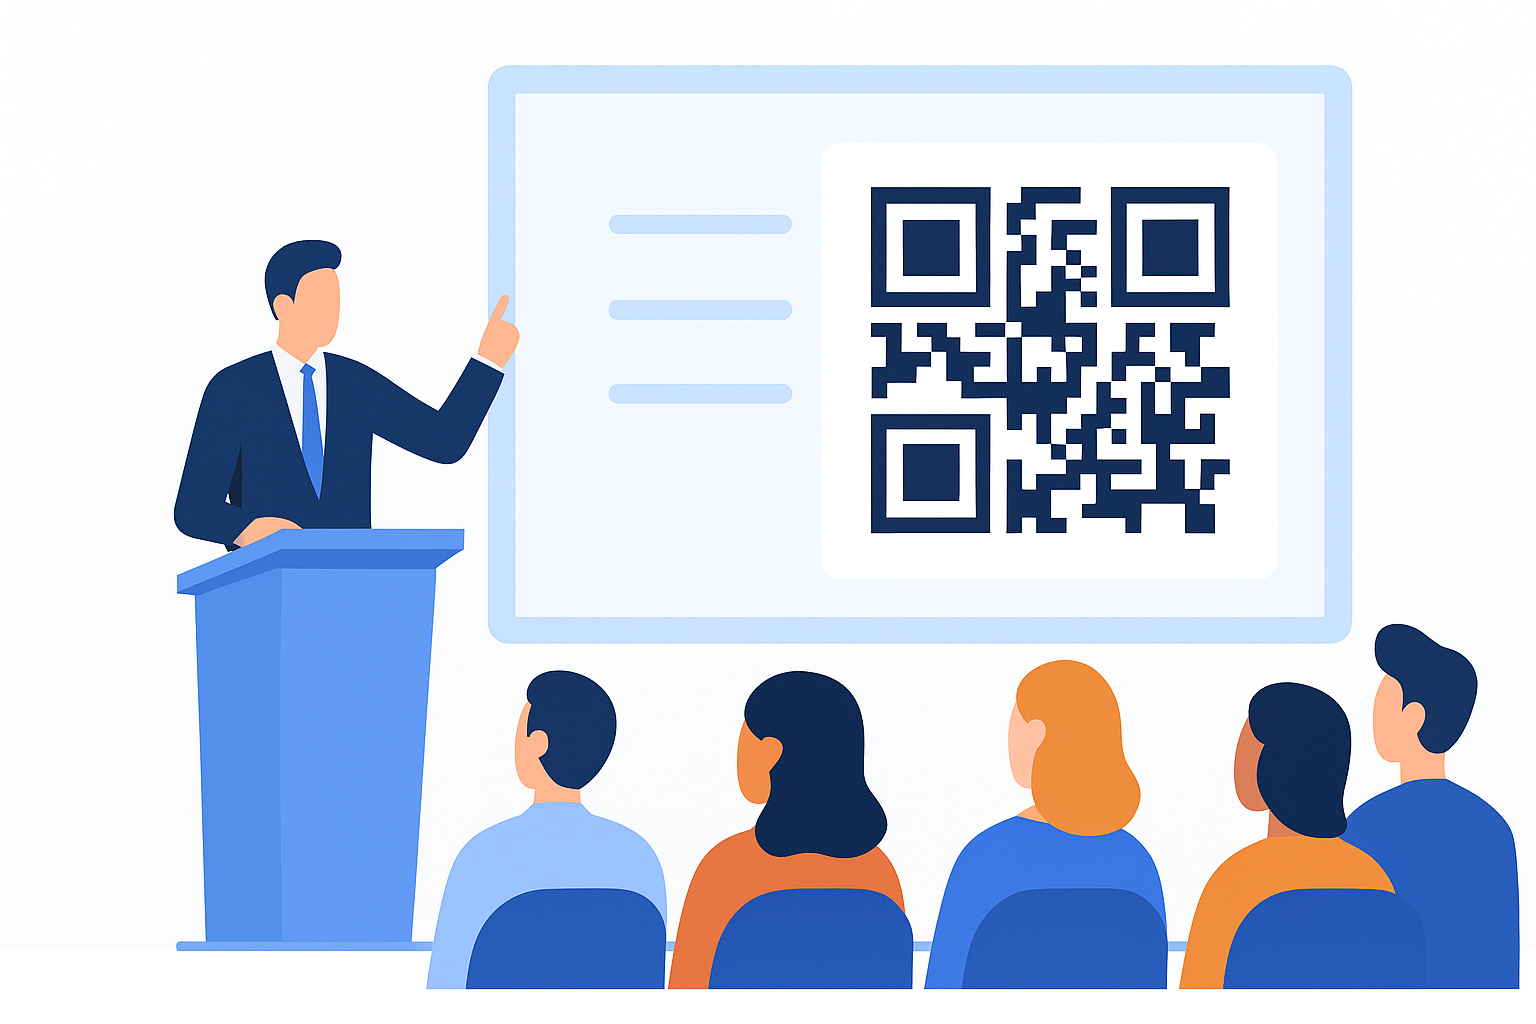
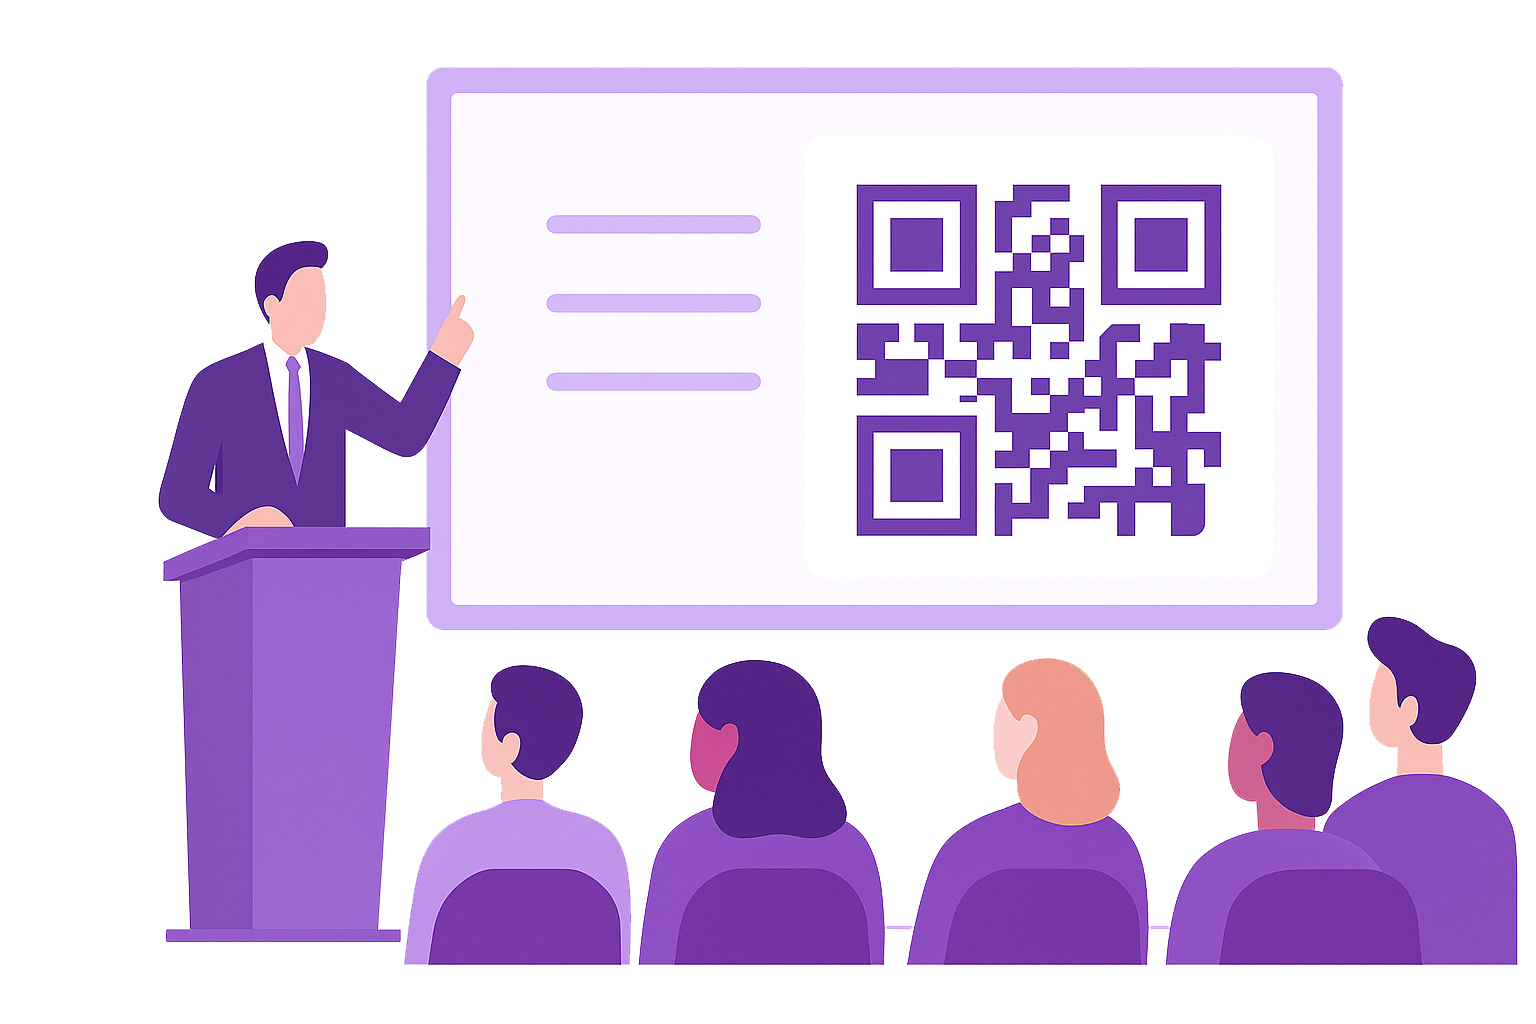
pagina

diff --git a/web/src/app/page.tsx b/web/src/app/page.tsx
@@ -20,7 +20,7 @@ const flow = [
   },
   {
     title: "3. Compartilhe no seu evento",
-    desc: "Mostre as perguntas selecionadas e gerencie ao vivo.",
+    desc: "Moderadores mostram ou leêm as perguntas selecionadas e gerenciam ao vivo.",
     type: "share",
   },
 ];
@@ -40,21 +40,32 @@ export default function Home() {
       {/* blobs suaves */}
       <div className="pointer-events-none absolute -left-24 top-16 h-80 w-80 rounded-[40%] bg-violet-200/40 blur-3xl" />
       <div className="pointer-events-none absolute -right-32 top-24 h-72 w-72 rounded-[40%] bg-sky-200/45 blur-3xl" />
-      <div className="pointer-events-none absolute -left-40 bottom-0 h-96 w-96 rounded-[45%] bg-indigo-200/35 blur-[100px]" />
+      <div className="pointer-events-none absolute -left-40 bottom-0 h-96 w-96 rounded-[45%] bg-purple-200/35 blur-[100px]" />
 
-      <div className="relative mx-auto flex min-h-screen w-full max-w-6xl flex-col gap-24 px-6 py-20">
+      <div className="relative mx-auto flex min-h-screen w-full max-w-7xl flex-col gap-24 px-6 py-20">
         {/* HERO */}
-        <section className="grid items-center gap-12 md:grid-cols-2">
-          {/* Texto */}
-          <div className="max-w-xl space-y-8">
-            <span className="inline-flex items-center gap-2 rounded-full border border-slate-200 bg-white/70 px-4 py-2 text-xs font-semibold uppercase tracking-[0.35em] shadow-sm">
-              <span className="text-slate-900">Events</span>
-              <span className="text-blue-600">Q</span>
-            </span>
+        <section className="grid items-center gap-8 md:grid-cols-12">
+          {/* Texto (7 colunas) */}
+          <div className="md:col-span-7 max-w-2xl space-y-8">
+            {/* Brand grande com logo */}
+            <div className="flex items-center gap-3">
+              <Image
+                src="/logotipo.png"     // coloque seu arquivo em /public/logotipo.png
+                alt="Logo EventsQ"
+                width={36}
+                height={36}
+                className="h-9 w-9 rounded-md"
+                priority
+              />
+              <div className="text-2xl font-semibold tracking-tight">
+                <span className="text-slate-900">Events</span>
+                <span className="text-purple-600">Q</span>
+              </div>
+            </div>
 
             <div className="space-y-5">
-              <h1 className="text-balance text-4xl font-semibold tracking-tight text-slate-900 md:text-5xl lg:text-6xl">
-                Perguntas inteligentes para eventos memoráveis.
+              <h1 className="text-4xl font-semibold leading-tight tracking-tight text-slate-900 md:text-5xl lg:text-6xl">
+                <span className="whitespace-nowrap">Perguntas{"\u00A0"}inteligentes para</span> eventos memoráveis.
               </h1>
               <p className="text-base text-slate-600 md:text-lg">
                 Crie salas em segundos, distribua um QR Code elegante e mantenha a conversa fluindo com moderação refinada.
@@ -64,7 +75,10 @@ export default function Home() {
             <div className="flex flex-col gap-4 sm:flex-row">
               <Link
                 href="/register"
-                className="inline-flex items-center justify-center rounded-full bg-gradient-to-r from-sky-500 to-violet-600 px-6 py-3 text-sm font-medium text-white shadow-lg shadow-violet-600/25 transition hover:brightness-110"
+                className="inline-flex items-center justify-center rounded-full 
+                          bg-gradient-to-r from-purple-500 to-violet-600 
+                          px-6 py-3 text-sm font-medium text-white 
+                          shadow-lg shadow-violet-600/25 transition hover:brightness-110"
               >
                 Comece agora →
               </Link>
@@ -77,14 +91,13 @@ export default function Home() {
             </div>
           </div>
 
-          {/* Ilustração */}
-          <div className="relative flex items-center justify-center">
+          {/* Ilustração (5 colunas) */}
+          <div className="md:col-span-5 flex items-center justify-center">
             <Image
               src="/Plateia_EventQ.png"
               alt="Apresentador mostrando QR Code para a plateia"
-              width={640}
-              height={480}
-              className="h-auto w-full max-w-lg"
+              width={820}
+              height={560}
               priority
             />
           </div>
@@ -114,12 +127,12 @@ export default function Home() {
           <div className="grid gap-8 md:grid-cols-3">
             {flow.map(({ title, desc, type }) => (
               <div key={title} className="space-y-4">
-                <div className="rounded-2xl bg-indigo-600 p-5 text-white shadow-lg ring-1 ring-indigo-800/40">
+                <div className="rounded-2xl bg-purple-600 p-5 text-white shadow-lg ring-1 ring-purple-800/40">
                   {type === "create" && (
                     <div className="grid grid-cols-[1fr_auto] gap-4 items-center">
                       <div>
                         <div className="text-sm font-semibold opacity-90">eventsq</div>
-                        <div className="mt-2 text-indigo-100">
+                        <div className="mt-2 text-purple-100">
                           Entrar em <span className="font-semibold">eventsq.app</span>
                           <br />
                           <span className="opacity-90">#SalaExemplo</span>
@@ -139,27 +152,27 @@ export default function Home() {
 
                   {type === "collect" && (
                     <div className="space-y-3">
-                      <div className="rounded-xl bg-indigo-700/60 p-3">
+                      <div className="rounded-xl bg-purple-700/60 p-3">
                         <div className="flex items-center gap-2">
-                          <div className="h-7 w-7 rounded-full bg-indigo-500/70" />
-                          <div className="h-2 w-40 rounded bg-indigo-300/60" />
+                          <div className="h-7 w-7 rounded-full bg-purple-500/70" />
+                          <div className="h-2 w-40 rounded bg-purple-300/60" />
                           <div className="ml-auto flex items-center gap-1 rounded-full bg-white/15 px-2 py-1 text-xs">
                             <span className="font-bold">13</span>
                             <span>👍</span>
                           </div>
                         </div>
-                        <div className="mt-2 h-2 w-56 rounded bg-indigo-300/40" />
+                        <div className="mt-2 h-2 w-56 rounded bg-purple-300/40" />
                       </div>
-                      <div className="rounded-xl bg-indigo-700/40 p-3">
+                      <div className="rounded-xl bg-purple-700/40 p-3">
                         <div className="flex items-center gap-2">
-                          <div className="h-7 w-7 rounded-full bg-indigo-500/60" />
-                          <div className="h-2 w-32 rounded bg-indigo-300/50" />
+                          <div className="h-7 w-7 rounded-full bg-purple-500/60" />
+                          <div className="h-2 w-32 rounded bg-purple-300/50" />
                           <div className="ml-auto flex items-center gap-1 rounded-full bg-white/10 px-2 py-1 text-xs">
                             <span className="font-bold">6</span>
                             <span>👍</span>
                           </div>
                         </div>
-                        <div className="mt-2 h-2 w-48 rounded bg-indigo-300/30" />
+                        <div className="mt-2 h-2 w-48 rounded bg-purple-300/30" />
                       </div>
                     </div>
                   )}
@@ -167,17 +180,17 @@ export default function Home() {
                   {type === "share" && (
                     <div className="grid grid-cols-[auto_1fr] gap-3">
                       <div className="flex flex-col gap-2 pt-1">
-                        <div className="h-1.5 w-8 rounded bg-indigo-200/70" />
-                        <div className="h-1.5 w-6 rounded bg-indigo-200/60" />
-                        <div className="h-1.5 w-10 rounded bg-indigo-200/60" />
+                        <div className="h-1.5 w-8 rounded bg-purple-200/70" />
+                        <div className="h-1.5 w-6 rounded bg-purple-200/60" />
+                        <div className="h-1.5 w-10 rounded bg-purple-200/60" />
                       </div>
                       <div className="space-y-2">
                         {[32, 18, 0].map((likes, i) => (
                           <div
                             key={i}
-                            className="flex items-center gap-3 rounded-lg bg-indigo-700/50 px-3 py-2"
+                            className="flex items-center gap-3 rounded-lg bg-purple-700/50 px-3 py-2"
                           >
-                            <div className="h-2 w-40 rounded bg-indigo-200/60" />
+                            <div className="h-2 w-40 rounded bg-purple-200/60" />
                             <div className="ml-auto flex items-center gap-1 text-xs opacity-90">
                               <span className="rounded bg-white/15 px-1.5 py-0.5">{likes}</span>
                               <span>👍</span>
@@ -211,7 +224,7 @@ export default function Home() {
         >
           CC BY-NC 4.0
         </a>{" "}
-        – uso, cópia e modificação permitidos apenas em contextos não comerciais.
+        – Cópia e modificação permitidos apenas em contextos não comerciais.
       </footer>
     </main>
   );
